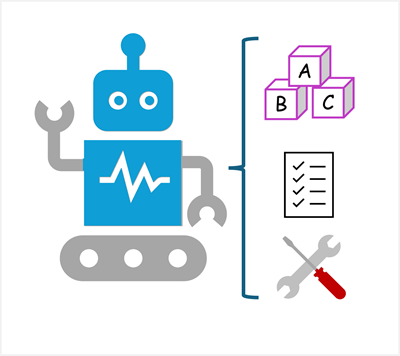
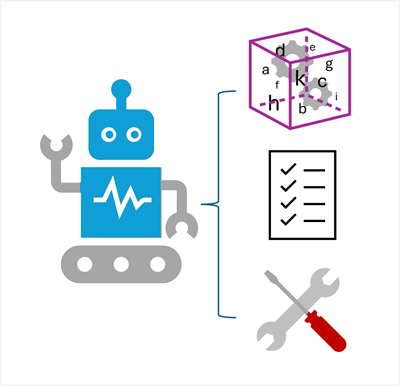
Added Skillable

Changed region(s): [[0.06, 0.0618, 0.9, 0.927], [0.72, 0.6798, 0.75, 0.7107]]

diff --git a/Instructions/Labs/02-continue-in-vscode.md b/Instructions/Labs/02-continue-in-vscode.md
@@ -29,7 +29,41 @@ Let's start by exploring some of the ways that Visual Studio Code empowers devel
 
 {% capture vscode_overview_text %}
 
-Text content for VS Code goes here.
+While you can perform many of the tasks needed to develop an AI solution directly in the Microsoft Foundry portal, developers also need to write, test, and deploy code.
+
+There are many development tools and environments available, and developers should choose one that supports the languages, SDKs, and APIs they need to work with and with which they're most comfortable. For example, a developer who focuses strongly on building applications for Windows using the .NET Framework might prefer to work in an integrated development environment (IDE) like Microsoft Visual Studio. Conversely, a web application developer who works with a wide range of open-source languages and libraries might prefer to use a code editor like Visual Studio Code (VS Code). Both of these products are suitable for developing AI applications on Azure.
+
+### The Foundry Toolkit extension for Visual Studio Code
+
+When developing Microsoft Foundry based generative AI applications in Visual Studio Code, you can use the Foundry Toolkit extension for Visual Studio Code to simplify key tasks in the workflow, including:
+
+- Browsing and managing project resources, including deployed models, agents, connections, and vector stores.
+- Deploying models from the model catalog.
+- Testing models and agents in integrated playgrounds.
+- Configuring declarative and hosted agents using a visual designer and YAML files.
+- Generating integration code to connect agents with your applications.
+
+![Screenshot of the Foundry Toolkit extension for Visual Studio Code.](./media/vs-code.png)
+
+> [!TIP]
+> For more information about using the Foundry Toolkit extension for Visual Studio Code, see **[Foundry Toolkit for Visual Studio Code](https://code.visualstudio.com/docs/intelligentapps/overview?azure-portal=true)**.
+
+### GitHub and GitHub Copilot
+
+GitHub is the world's most popular platform for source control and DevOps management, and can be a critical element of any team development effort. Visual Studio and VS Code both provide native integration with GitHub, and access to GitHub Copilot; an AI assistant that can significantly improve developer productivity and effectiveness.
+
+![Screenshot of GitHub Copilot in Visual Studio Code.](./media/github-copilot.png)
+
+> [!TIP]
+> For more information about using GitHub Copilot in Visual Studio Code, see **[GitHub Copilot in VS Code](https://code.visualstudio.com/docs/copilot/overview?azure-portal=true)**.
+
+## Programming languages, APIs, and SDKs
+
+You can develop AI applications using many common programming languages and frameworks, including Microsoft C#, Python, Node, TypeScript, Java, and others. When building AI solutions on Azure, some common APIs and SDKs you should plan to use include:
+
+- The **[Microsoft Foundry SDK](/azure/foundry/how-to/develop/sdk-overview?azure-portal=true)**, which enables you to write code to connect to Microsoft Foundry projects and access Foundry-specific assets, like agents and Foundry IQ knowledge stores.
+- The **[The OpenAI API](/azure/foundry/openai/latest?azure-portal=true)**, which enables you to use OpenAI SDKs to build chat applications based on Foundry models that support OpenAI syntax.
+- **[Foundry Tools SDKs](/azure/ai-services/reference/sdk-package-resources?azure-portal=true)** - AI service-specific libraries for multiple programming languages and frameworks that enable you to consume Foundry Tools resources in your subscription. You can also use Foundry Tools through their [REST APIs](/azure/ai-services/reference/rest-api-resources?azure-portal=true).
 
 {% endcapture %}
 
@@ -39,11 +73,23 @@ Text content for VS Code goes here.
 
 {% capture vscode_hosted_markdown %}
 
-Hosted lab link here.
+This exercise is available in a hosted lab environment, provided by our partner *Skillable*.
+
+[![Screenshot of Skillable lab environment](./media/skillable.png)](https://labondemand.com/LabProfile/214910){:target="_blank"}
+
+### [Launch Hosted Lab](https://labondemand.com/LabProfile/214910){:target="_blank"}
 
 {% endcapture %}
 
 {% capture vscode_own_setup_markdown %}
+Use these instructions to complete the exercise in your own Azure subscription and development environment.
+
+### Before you start
+
+Use the [setup guide](./00-setup.md){:target="_blank"} to prepare your environment. Then complete the [previous lab](./02-continue-in-vscode.md) in this series.
+
+When you're ready, follow the instructions below to create your first agent.
+
 ### Install the Foundry Toolkit extension for Visual Studio Code
 
 The Foundry Toolkit extension for Visual Studio Code brings the assets in your Foundry projects right into the development environment.

diff --git a/Instructions/Labs/01-get-started-in-foundry.md b/Instructions/Labs/01-get-started-in-foundry.md
@@ -26,6 +26,7 @@ Before creating an agent, let's set some context about *generative* AI and how i
 {% endcapture %}
 
 {% capture conceptual_overview_text %}
+
 ### Generative AI
 
 *Generative AI* is a branch of AI that enables software applications to generate new content; often natural language dialogs, but also images, video, code, and other formats.
@@ -63,7 +64,6 @@ With these capabilities, AI agents can take on the role of digital assistants th
 
 {% include lab-tabbed-video-text.html id="concept-overview" aria_label="Conceptual overview content" video_html=conceptual_overview_video text_markdown=conceptual_overview_text %}
 
-
 ## Exercise: Create an agent with Microsoft Foundry
 
 Now it's your turn. In this exercise, you'll use Microsoft Foundry to start developing an AI agent that provides information and expertise on the history of computing.
@@ -72,11 +72,23 @@ Now it's your turn. In this exercise, you'll use Microsoft Foundry to start deve
 
 {% capture hosted_lab_markdown %}
 
-Hosted lab link here.
+This exercise is available in a hosted lab environment, provided by our partner *Skillable*.
+
+[![Screenshot of Skillable lab environment](./media/skillable.png)](https://labondemand.com/LabProfile/214910){:target="_blank"}
+
+### [Launch Hosted Lab](https://labondemand.com/LabProfile/214910){:target="_blank"}
 
 {% endcapture %}
 
 {% capture own_setup_markdown %}
+Use these instructions to complete the exercise in your own Azure subscription.
+
+### Before you start
+
+Use the [setup guide](./00-setup.md){:target="_blank"} to prepare your environment.
+
+When you're ready, follow the instructions below to create your first agent.
+
 ### Create a Microsoft Foundry project
 
 Microsoft Foundry uses *projects* to organize models, resources, data, and other assets used to develop an AI solution.
@@ -226,6 +238,6 @@ In this lab, you explored how to deploy and chat with a generative AI model in M
 
 ## Next steps
 
-This is the first in a series of lab exercises; save your work and continue to the next exercise if you're ready.
+This is the first in a series of lab exercises; save your work and continue to the [next exercise](./02-continue-in-vscode.md) if you're ready.
 
 > **Tip**: If you have finished exploring Microsoft Foundry, you should delete the Azure resources created in this exercise to avoid unnecessary utilization charges.
